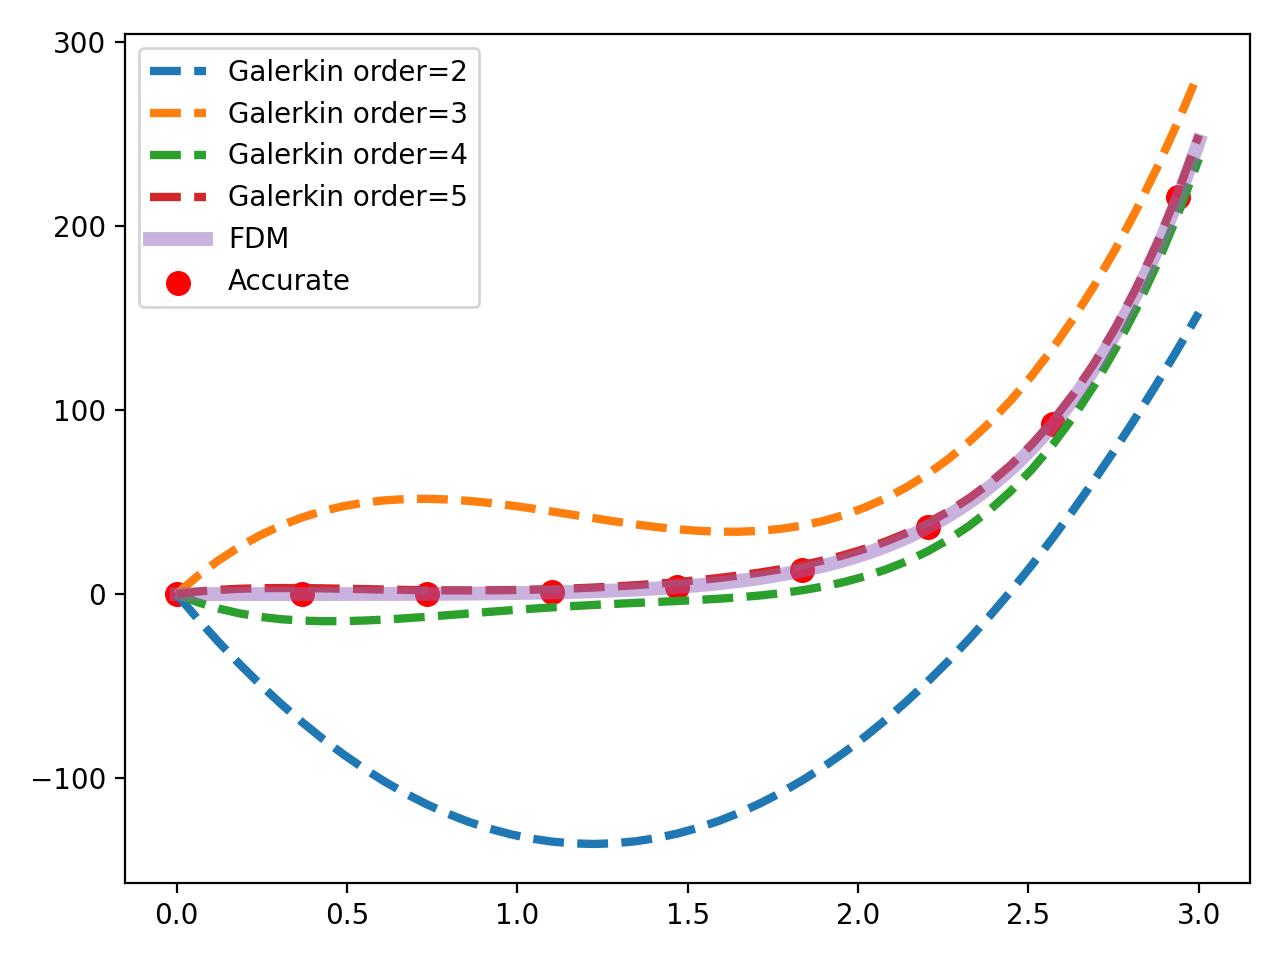
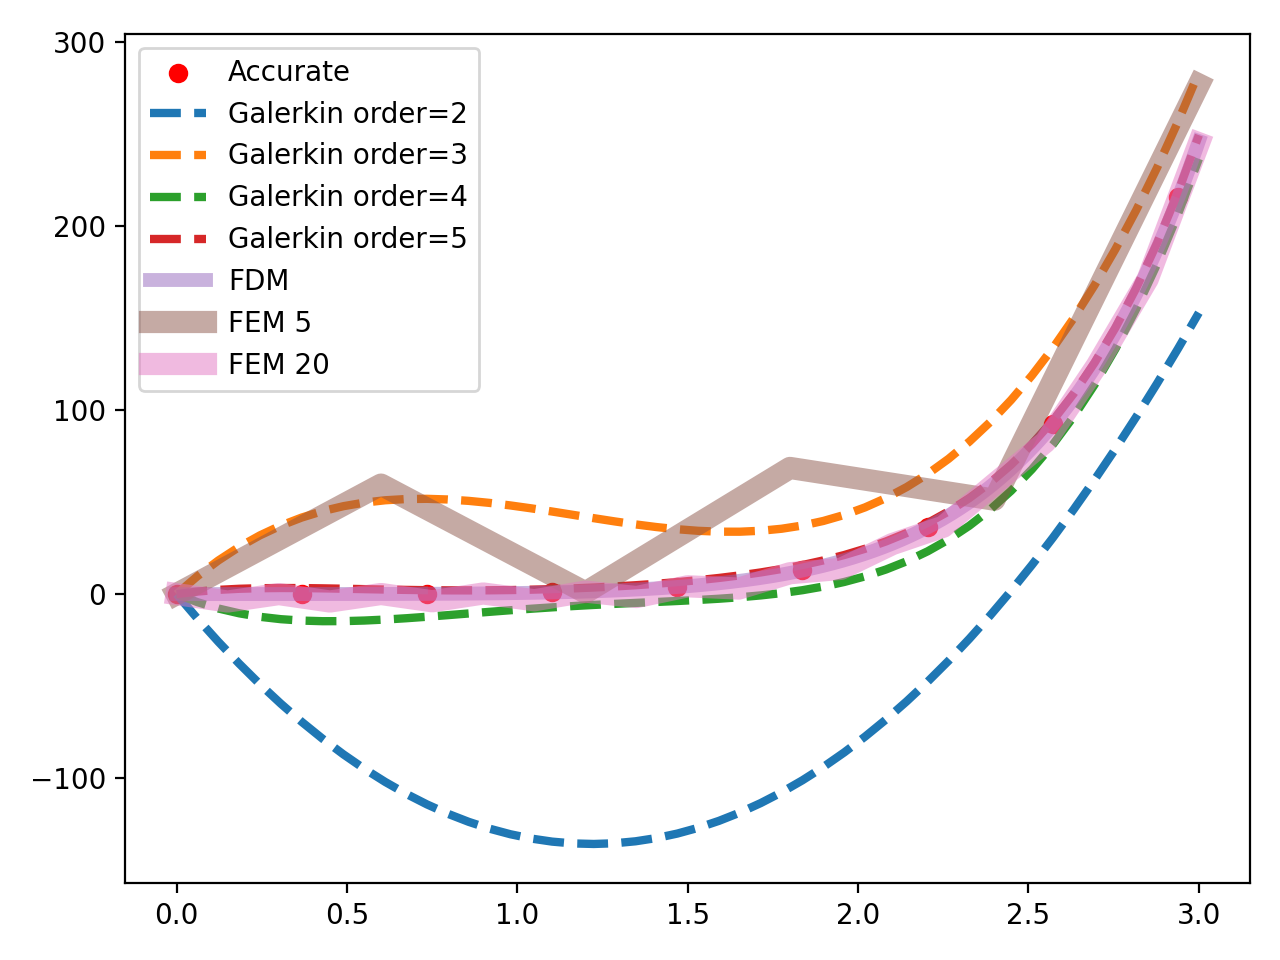
FEM

diff --git a/galerkin_learning/galerkin_FEM.py b/galerkin_learning/galerkin_FEM.py
@@ -1,0 +1,54 @@
+import numpy as np
+import matplotlib.pyplot as plt
+
+
+def get_B(x, h):
+    n = len(x)
+    B = np.zeros(len(x))
+    B[0] = h/6. * (f(x[0]) + 2.*f(x[0] + 0.5*h))
+    for i in range(1, n-1):
+        B[i] = h/3. * (f(x[i]) + f(x[i] + 0.5*h) + f(x[i]-0.5*h))
+    B[-1] = h/6. * (f(x[n-1]) + 2.*f(x[n-1] - 0.5*h))
+
+    return B
+
+
+def f(x):
+    return x**3*np.exp(x)
+
+
+def get_A(n):
+    A = np.zeros(shape=[n, n])
+    for i in range(1, n-1):
+        A[i, i-1:i+2] = np.array([-0.5, 0., 0.5])
+    A[0, 0:2] = np.array([-0.5, 0.5])
+    A[n-1, n-2:n] = np.array([-0.5, 0.5])
+    return A
+
+
+def boundary_condition(A, B, u, free_mask):
+    B -= np.einsum('ij, j->i', A, u)
+    return A[free_mask][:, free_mask], B[free_mask]
+
+
+def FEM(
+    num_ele = 10):
+    x = np.linspace(0, 3, num_ele+1)
+    h = x[1] - x[0]
+    A = get_A(len(x))
+    B = get_B(x, h)
+
+    # boundary condition u0=0
+    u = np.zeros_like(x)
+    free_mask = (x>0)
+    A_free, B_free = boundary_condition(A, B, u, free_mask)
+    u_free = np.linalg.solve(A_free, B_free)
+    u[free_mask] = u_free
+
+    return x, u
+
+
+if __name__ == '__main__':
+    x, u = FEM(num_ele=40)
+    plt.plot(x, u)
+    plt.show()

diff --git a/galerkin_learning/galerkin_method.py b/galerkin_learning/galerkin_method.py
@@ -1,6 +1,7 @@
 import numpy as np
 import matplotlib.pyplot as plt
 from finite_difference import FDM
+from galerkin_FEM import FEM
 
 '''
     Reference:
@@ -46,7 +47,9 @@ def main():
     x = np.linspace(0, x_end, 50)
     y_accurate = (x**3-3*x**2+6*x-6)*np.exp(x) + 6
     index = np.arange(0, len(x), len(x)//10+1)
-    plt.scatter(x[index], y_accurate[index], c='r', lw = 3, label='Accurate')
+
+    fig = plt.figure()
+    plt.scatter(x[index], y_accurate[index], c='r', label='Accurate')
 
     for order in [2, 3, 4, 5]:
         basis = get_basis(x, order=order)
@@ -54,8 +57,15 @@ def main():
         y_galerkin = np.einsum('i, ij->j', a, basis)
         plt.plot(x, y_galerkin, linestyle='--', lw=3, label='Galerkin order=%d' % order)
 
+    # FDM
     x = np.linspace(0, x_end, 1000)
     plt.plot(x, FDM(x), lw=5, label='FDM', alpha=0.5)
+
+    # FEM
+    for num_ele in [5, 20]:
+        x, u = FEM(num_ele=num_ele)
+        plt.plot(x, u, lw=8, label='FEM %d' % num_ele, alpha=0.5)
+
     plt.legend()
     plt.tight_layout()
     plt.savefig('./img/comparison_solution.png', dpi=200)

diff --git a/galerkin_learning/finite_difference.py b/galerkin_learning/finite_difference.py
@@ -25,7 +25,10 @@ if __name__ == "__main__":
     n = 1001
     x_0, x_end = 0, 3.
     dx = (x_end - x_0) / (n - 1)
+    fig = plt.figure()
+    ax = plt.subplot(111)
     x = np.linspace(x_0, x_end, n)
     y = FDM(x)
     plt.plot(x, y)
+    plt.tight_layout()
     plt.show()
